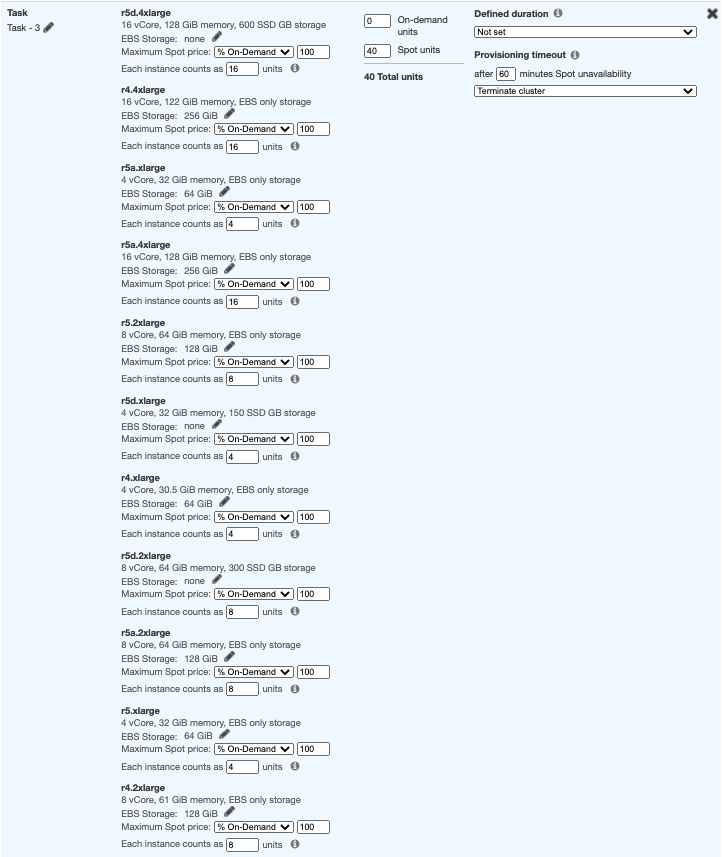
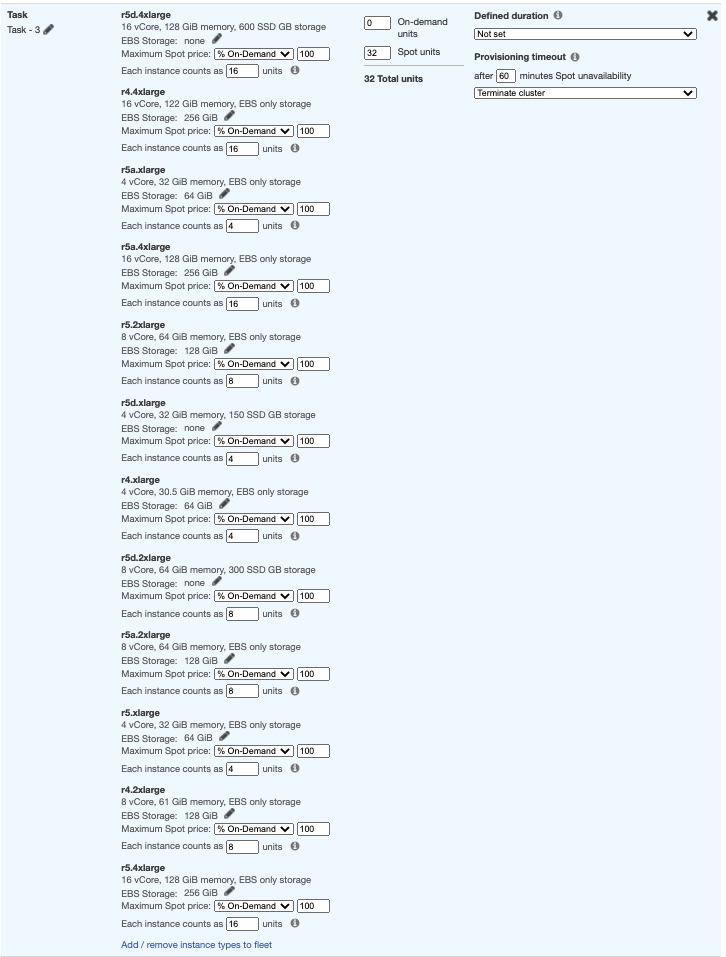
Updated to 32 instances to support 4xl

diff --git a/content/running_spark_apps_with_emr_on_spot_instances/selecting_instance_types.md b/content/running_spark_apps_with_emr_on_spot_instances/selecting_instance_types.md
@@ -9,10 +9,10 @@ EMR clusters run Master, Core and Task node types. [Click here] (https://docs.aw
 We determined that in order to be flexible and allow running on multiple instance types across R instance family, we will submit our Spark application with **"–executor-memory=18GB –executor-cores=4"**.
 
 We will use **[amazon-ec2-instance-selector](https://github.com/aws/amazon-ec2-instance-selector)** to help us select the relevant instance
-types and familes with sufficient number of vCPUs and RAM. 
-For example: We will indentiy R family instances, so EMR can run executors that will consume 4 vCPUs and 18 GB of RAM and still leave free RAM for the operating system and other processes. We can select different-sized instance types such as r5.xlarge and r5.2xlarge. Second, add previous generation r4.xlarge and other R4 instance sizes. After we have added different sizes within the same family, as well as previous generation instance types, we can add extra instance types with similar hardware characteristics and vCPU to memory ratio, such as the r5a instance family with AMD processors, r5d instance family with locally attached NVMe storage, and more.
+types and families with sufficient number of vCPUs and RAM. 
+For example: We identified R family instances, so EMR can run executors that will consume 4 vCPUs and 18 GB of RAM and still leave free RAM for the operating system and other processes. First, we can select different-sized instance types from current generation, such as r5.xlarge, r5.2xlarge and r5.4xlarge. Next, we can select different-sized instance types from previous generation, such as r4.xlarge, r4.2xlarge and r4.4xlarge. Last, we can select different-sized instances from R family local storage and processor variants, such as R5d instance types (local NVMe-based SSDs) and R5a instance types (powered by AMD processors).
 
-There are over 270 different instance types available on EC2 which can make the process of selecting appropriate instance types difficult. **[amazon-ec2-instance-selector](https://github.com/aws/amazon-ec2-instance-selector)** helps you select compatible instance types for your application to run on. The command line interface can be passed resource criteria like vcpus, memory, network performance, and much more and then return the available, matching instance types.
+There are over 275 different instance types available on EC2 which can make the process of selecting appropriate instance types difficult. **[amazon-ec2-instance-selector](https://github.com/aws/amazon-ec2-instance-selector)** helps you select compatible instance types for your application to run on. The command line interface can be passed resource criteria like vCPUs, memory, network performance, and much more and then return the available, matching instance types.
 
 Let's first install **amazon-ec2-instance-selector** on Cloud9 IDE:
 
@@ -25,11 +25,11 @@ ec2-instance-selector --version
 Now that you have ec2-instance-selector installed, you can run
 `ec2-instance-selector --help` to understand how you could use it for selecting
 instances that match your workload requirements. For the purpose of this workshop
-we need to first get a group of instances with sizes between 4vCPU to 16vCPUs and belong to current generation R family.
+we need to first get a group of instances with sizes between 4vCPU to 16vCPUs and belong to R5, R4, R5D and R5A instance types.
 Run the following command to get the list of instances.
 
 ```bash
-ec2-instance-selector --vcpus-min 4  --vcpus-max 16  --allow-list '.*r5.*|.*r4.*|.*r5a.*|.*r5d.*'  --deny-list '.*n.*|.*ad.*|.*b.*'  
+ec2-instance-selector --vcpus-min 4  --vcpus-max 16  --allow-list '.*r5.*|.*r4.*|.*r5d.*|.*r5a.*'  --deny-list '.*n.*|.*ad.*|.*b.*'  
 ```
 
 This should display a list like the one that follows (note results might differ depending on the region). We will use this instances as part of our EMR Core and Task Instance Fleets.
@@ -50,52 +50,14 @@ r5d.xlarge
 ```
 
 Internally ec2-instance-selector is making calls to the [DescribeInstanceTypes](https://docs.aws.amazon.com/AWSEC2/latest/APIReference/API_DescribeInstanceTypes.html) for the specific region and filtering
-the intstances based on the criteria selected in the command line, in our case 
+the instances based on the criteria selected in the command line, in our case 
 we did filter for instances that meet the following criteria:\
  * Instances that have minimum 4 vCPUs and maximum 16 vCPUs\
- * Instances of R5, R5A, R5D and R4 generation (4th gen onwards)\
- * Instances that don't meet the regular expresion `.*n.*|.*ad.*|.*b.*` so effectively r5n, r5dn, r5ad and r5b.
+ * Instances of R5, R4, R5D and R5A generation\
+ * Instances that don't meet the regular expression `.*n.*|.*ad.*|.*b.*`, so effectively r5n, r5dn, r5ad and r5b.
 
 
 {{% notice note %}}
 You are encouraged to test what are the options that `ec2-instance-selector` provides and run a few commands with it to familiarize yourself with the tool.
 For example, try running the same commands as you did before with the extra parameter **`--output table-wide`**.
 {{% /notice %}}
-
-### Challenge 
-
-Find out another group that adheres to a 1vCPU:8GB ratio but this time across all instance families with same deny list.
-
-{{%expand "Expand this for an example on the list of instances" %}}
-
-That should be easy. You can run the command:  
-
-```bash
-ec2-instance-selector --vcpus-to-memory-ratio 1:8 --vcpus-min 4  --vcpus-max 32 --gpus 0 --current-generation -a x86_64 --deny-list '.*n.*|.*ad.*|.*b.*'
-```
-
-which should yield a list as follows 
-
-```
-d2.2xlarge
-d2.4xlarge
-d2.xlarge
-i3.2xlarge
-i3.4xlarge
-i3.8xlarge
-i3.xlarge
-r4.2xlarge
-r4.4xlarge
-r4.8xlarge
-r4.xlarge
-r5.2xlarge
-r5.4xlarge
-r5.8xlarge
-r5.xlarge
-r5a.2xlarge
-r5a.4xlarge
-r5a.8xlarge
-r5a.xlarge
-r5d.2xlarge
-```
-{{% /expand %}}

diff --git a/content/running_spark_apps_with_emr_on_spot_instances/fleet_config_options.md b/content/running_spark_apps_with_emr_on_spot_instances/fleet_config_options.md
@@ -11,8 +11,8 @@ While our cluster is starting (7-8 minutes) and the step is running (4-10 minute
 Since Amazon EC2 Spot Instances [changed the pricing model and bidding is no longer required] (https://aws.amazon.com/blogs/compute/new-amazon-ec2-spot-pricing/), we have an optional "Max-price" field for our Spot requests, which would limit how much we're willing to pay for the instance. It is recommended to leave this value at 100% of the On-Demand price, in order to avoid limiting our instance diversification. We are going to pay the Spot market price regardless of the Maximum price that we can specify, and setting a higher max price does not increase the chance of getting Spot capacity nor does it decrease the chance of getting your Spot Instances interrupted when EC2 needs the capacity back. You can see the current Spot price in the AWS Management Console under EC2 -> Spot Requests -> **Pricing History**.
 
 #### Each instance counts as X units
-This configuration allows us to give each instance type in our diversified fleet a weight that will count towards our Total units. By default, this weight is configured as the number of YARN VCores that the instance type has by default (this would typically equate to the number of EC2 vCPUs) - this way it's easy to set the Total units to the number of vCPUs we want our cluster to run with, and EMR will select the best instances while taking into account the required number of instances to run. For example, if r4.xlarge is the instance type that EMR found to be the least likely to be interrupted and has the lowest price out of our selection, its weight is 4 and our total units (only Spot) is 40, then 10 * r4.xlarge instances will be launched by EMR in the fleet.
-If my Spark application is memory driven, I can set the total units to the total amount of memory I want my cluster to run with, and change the "Each instance counts as" field to the total memory of the instance, leaving aside some memory for the operating system and other processes. For example, for the r4.xlarge I can set its weight to 25. If I then set up the Total units to 500 then EMR will bring up 20 * r4.xlrage instances in the fleet. Since our executor size is 18 GB, one executor will run on this instance type.
+This configuration allows us to give each instance type in our diversified fleet a weight that will count towards our Total units. By default, this weight is configured as the number of YARN VCores that the instance type has by default (this would typically equate to the number of EC2 vCPUs) - this way it's easy to set the Total units to the number of vCPUs we want our cluster to run with, and EMR will select the best instances while taking into account the required number of instances to run. For example, if r4.xlarge is the instance type that EMR found to be the least likely to be interrupted, its weight is 4 and our total units (only Spot) is 32, then 8 * r4.xlarge instances will be launched by EMR in the fleet.
+If my Spark application is memory driven, I can set the total units to the total amount of memory I want my cluster to run with, and change the "Each instance counts as" field to the total memory of the instance, leaving aside some memory for the operating system and other processes. For example, for the r4.xlarge I can set its weight to 25. If I then set up the Total units to 500 then EMR will bring up 20 * r4.xlarge instances in the fleet. Since our executor size is 18 GB, one executor will run on this instance type.
 
 #### Defined duration
 This option will allow you run your EMR Instance Fleet on Spot Blocks, which are uninterrupted Spot Instances, available for 1-6 hours, at a lower discount compared to Spot Instances.

diff --git a/content/running_spark_apps_with_emr_on_spot_instances/launching_emr_cluster-2.md b/content/running_spark_apps_with_emr_on_spot_instances/launching_emr_cluster-2.md
@@ -15,20 +15,20 @@ The workshop focuses on running Spot Instances across all the cluster node types
 #### **Master node**:
 Unless your cluster is very short-lived and the runs are cost-driven, avoid running your Master node on a Spot Instance. We suggest this because a Spot interruption on the Master node terminates the entire cluster. \
 For the purpose of this workshop, we will run the Master node on a Spot Instance as we simulate a relatively short lived job running on a transient cluster. There will not be business impact if the job fails due to a Spot interruption and later re-started.\
-Click **Add / remove instance types to fleet** and select two relatively cheaper instance types - i.e c5.xlarge and m5.xlarge and check Spot under target capacity. EMR will only provision one instance, but will select the best instance type for the Master node based on price and available capacity.
+Click **Add / remove instance types to fleet** and select two relatively cheaper instance types - i.e c5.xlarge and m5.xlarge and check Spot under target capacity. EMR will only provision one instance, but will select the best instance type for the Master node from the Spot instance pools with the optimal capacity.
 ![FleetSelection1](/images/running-emr-spark-apps-on-spot/emrinstancefleets-master.png)
 
 
 #### **Core Instance Fleet**:
 Avoid using Spot Instances for Core nodes if your Spark applications use HDFS. That prevents a situation where Spot interruptions cause data loss for data that was written to the HDFS volumes on the instances. For short-lived applications on transient clusters, as is the case in this workshop, we are going to run our Core nodes on Spot Instances.\
 When using EMR Instance Fleets, one Core node is mandatory. Since we want to scale out and run our Spark application on our Task nodes, let's stick to the one mandatory Core node. We will specify **4 Spot units**, and select instance types that count as 4 units and will allow to run one executor.\
-Under the core node type, Click **Add / remove instance types to fleet** and select instance types that you noted before as suitable to run an executor (given the 18G executor size), for example: 
+Under the core node type, click **Add / remove instance types to fleet** and select instance types that you noted before as suitable to run an executor (given the 18G executor size), for example: 
 ![FleetSelection2](/images/running-emr-spark-apps-on-spot/emrinstancefleets-core1.png)
 
 #### **Task Instance Fleet**:
 Our task nodes will only run Spark executors and no HDFS DataNodes, so this is a great fit for scaling out and increasing the parallelization of our application's execution, to achieve faster execution times.
-Under the task node type, Click **Add / remove instance types to fleet** and select upto 15 instance types you noted before as suitable for our executor size.\
-Since our executor size is 4 vCPUs, and each instance counts as the number of its vCPUs towards the total units, let's specify **40 Spot units** in order to run 10 executors, and allow EMR to select the best instance type in the Task Instance Fleet to run the executors on.
+Under the task node type, Click **Add / remove instance types to fleet** and select up to 15 instance types you noted before as suitable for our executor size.\
+Since our executor size is 4 vCPUs, and each instance counts as the number of its vCPUs towards the total units, let's specify **32 Spot units** in order to run 8 executors, and allow EMR to select the best instance type in the Task Instance Fleet to run the executors on.
 
 ![FleetSelection3](/images/running-emr-spark-apps-on-spot/emrinstancefleets-task2.png)
 

diff --git a/content/running_spark_apps_with_emr_on_spot_instances/emr_allocation_strategies.md b/content/running_spark_apps_with_emr_on_spot_instances/emr_allocation_strategies.md
@@ -9,7 +9,7 @@ As an enhancement to the default EMR instance fleets cluster configuration, the 
 * Spot instances use a capacity-optimized strategy, which launches Spot instances from Spot instance pools that have optimal capacity for the number of instances that are launching.
 
 {{% notice note %}}
-The allocation strategy option also lets you specify up to fifteen EC2 instance types per task node when creating your cluster, as opposed to five maximum allowed by the default EMR cluster instance fleet configuration.
+The allocation strategy option also lets you specify up to 15 EC2 instance types per task node when creating your cluster, as opposed to 5 maximum allowed by the default EMR cluster instance fleet configuration.
 {{% /notice %}}
 
 The capacity-optimized allocation strategy for Spot instances uses real-time capacity data to allocate instances from the Spot instance pools with the optimal capacity for the number of instances that are launching. This allocation strategy is appropriate for workloads that have a higher cost of interruption. Examples include long-running jobs and multi-tenant persistent clusters running Apache Spark, Apache Hive, and Presto. This allocation strategy lets you specify up to 15 EC2 instance types on task instance fleets to diversify your Spot requests and get steep discounts. Previously, instance fleets allowed a maximum of five instance types. You can now diversify your Spot requests across these 15 pools within each Availability Zone and prioritize deploying into a deeper capacity pool to lower the chance of interruptions. With more instance type diversification, Amazon EMR has more capacity pools to allocate capacity from, and chooses the Spot Instances which are least likely to be interrupted.

diff --git a/content/running_spark_apps_with_emr_on_spot_instances/examining_cluster.md b/content/running_spark_apps_with_emr_on_spot_instances/examining_cluster.md
@@ -64,8 +64,8 @@ Some notable metrics:\
 When you are done examining the cluster and using the different UIs, terminate the EMR cluster from the EMR management console. This is not the end of the workshop though - we still have some interesting steps to go.
 
 #### Number of executors in the cluster
-With 40 Spot Units in the Task Instance Fleet, EMR launched either 10 * xlarge (running one executor) or 5 * 2xlarge instances (running 2 executors), so the Task Instance Fleet provides 10 executors / containers to the cluster.\
+With 32 Spot Units in the Task Instance Fleet, EMR launched either 8 * xlarge (running one executor) or 4 * 2xlarge instances (running 2 executors) or 2 * 4xlarge instances (running 4 executors), so the Task Instance Fleet provides 8 executors / containers to the cluster.\
 The Core Instance Fleet launched one xlarge instance, able to run one executor.
-{{%expand "Question: Did you see more than 11 containers in CloudWatch Metrics and in YARN ResourceManager? if so, do you know why? Click to expand the answer" %}}
+{{%expand "Question: Did you see more than 9 containers in CloudWatch Metrics and in YARN ResourceManager? if so, do you know why? Click to expand the answer" %}}
 Your Spark application was configured to run in Cluster mode, meaning that the **Spark driver is running on the Core node**. Since it is counted as a container, this adds a container to our count, but it is not an executor.
 {{% /expand%}}
